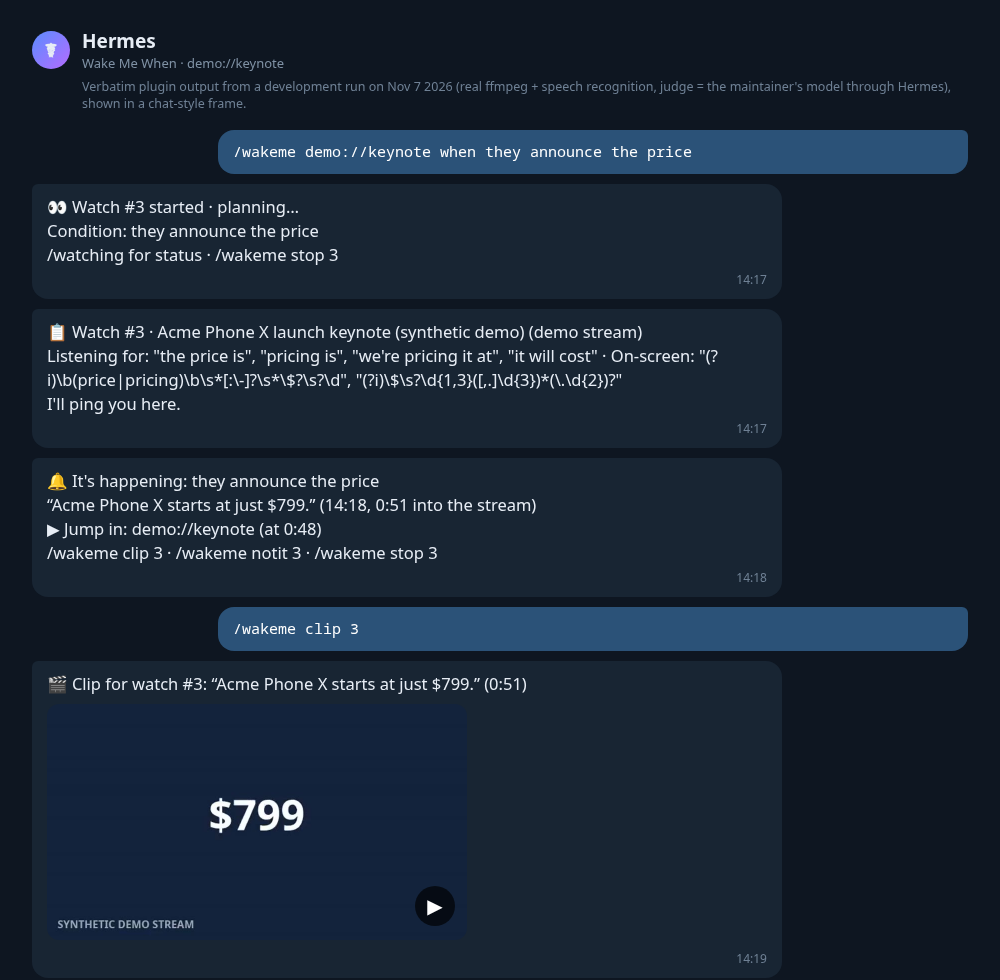
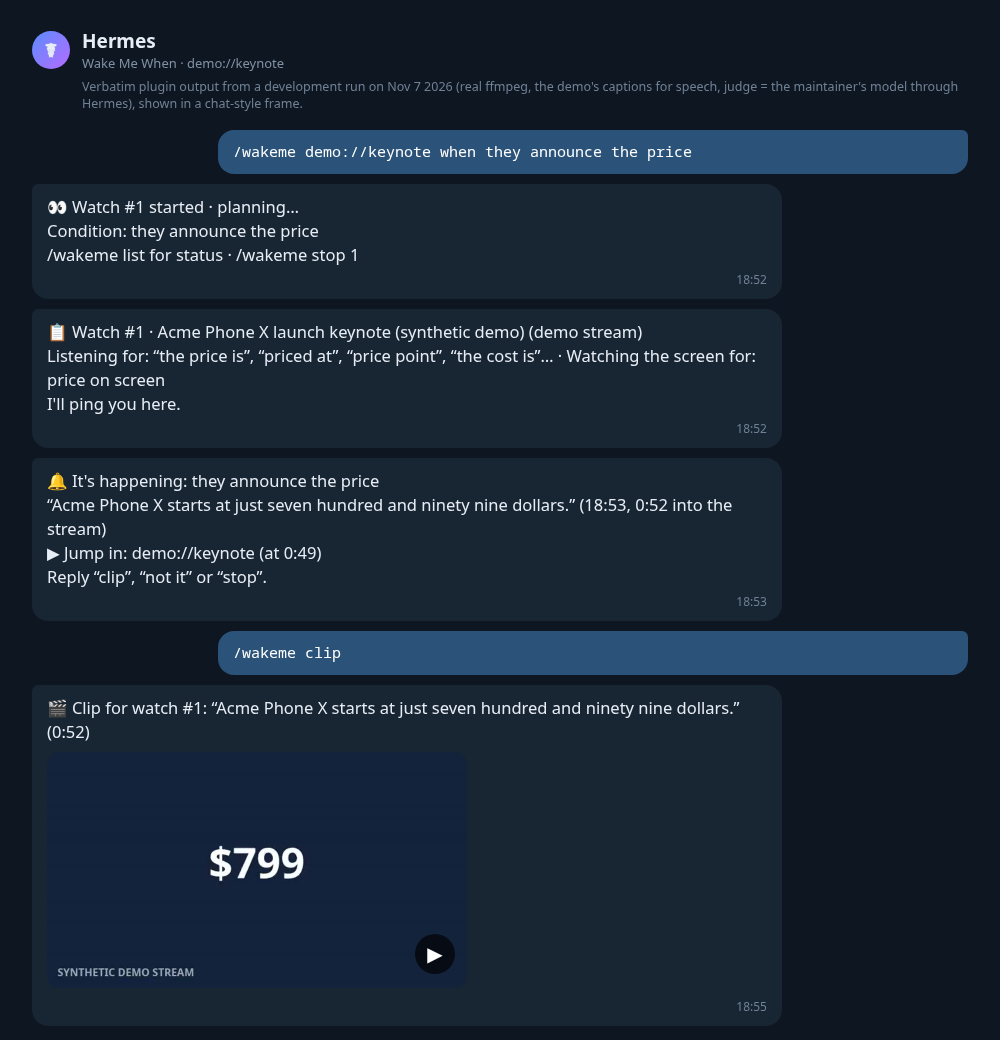
README sample and alert screenshot from a run of the new surface (spike/live9.log)

diff --git a/README.md b/README.md
@@ -13,18 +13,18 @@ your moment arrives, in the chat you asked from (Telegram, Discord, Slack, …).
 Real output from a development run (Nov 7 2026, judge = the maintainer's model through Hermes):
 
 ```
-👀 Watch #3 started · planning…
+👀 Watch #1 started · planning…
 Condition: they announce the price
-/watching for status · /wakeme stop 3
+/wakeme list for status · /wakeme stop 1
 
-📋 Watch #3 · Acme Phone X launch keynote (synthetic demo) (demo stream)
-Listening for: "the price is", "pricing is", "we're pricing it at", "it will cost" · On-screen: "(?i)\b(price|pricing)\b\s*[:\-]?\s*\$?\s?\d", "(?i)\$\s?\d{1,3}([,.]\d{3})*(\.\d{2})?"
+📋 Watch #1 · Acme Phone X launch keynote (synthetic demo) (demo stream)
+Listening for: “the price is”, “priced at”, “price point”, “the cost is”… · Watching the screen for: price on screen
 I'll ping you here.
 
 🔔 It's happening: they announce the price
-“Acme Phone X starts at just $799.” (14:18, 0:51 into the stream)
-▶ Jump in: demo://keynote (at 0:48)
-/wakeme clip 3 · /wakeme notit 3 · /wakeme stop 3
+“Acme Phone X starts at just seven hundred and ninety nine dollars.” (18:53, 0:52 into the stream)
+▶ Jump in: demo://keynote (at 0:49)
+Reply “clip”, “not it” or “stop”.
 ```
 
 ![A watch, its plan, the alert and the clip](docs/screenshots/alert.png)
